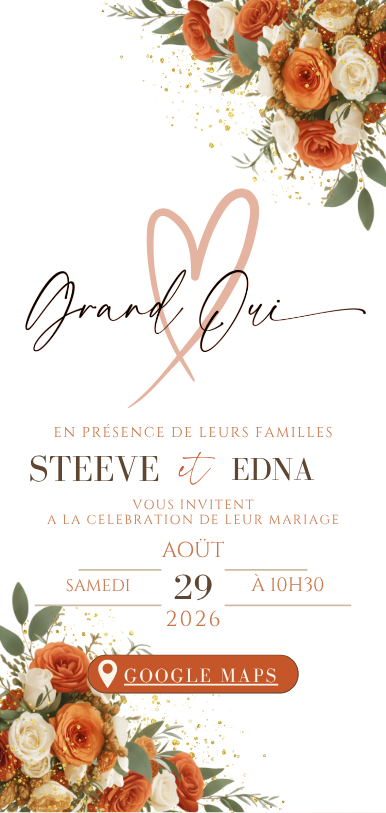
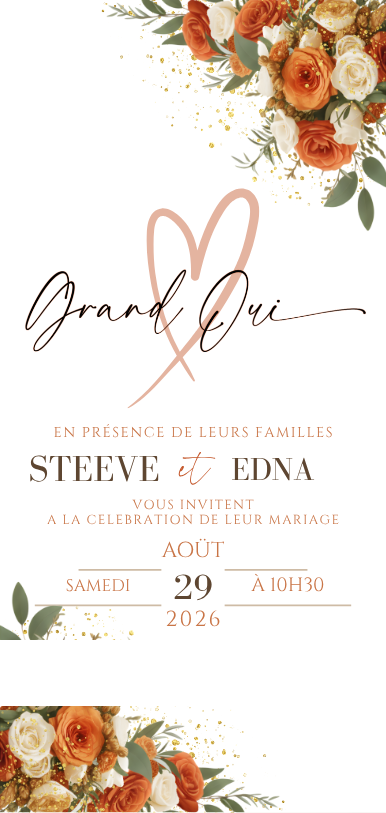
Bouton Google Maps retire de l image et remplace par un vrai bouton visible aligne a droite, Eglise ICC positionne au-dessus, autoplay active sur la musique

Changed region(s): [[0.0, 0.7688, 0.7772, 0.8918]]

diff --git a/app/mariage/[token]/MariageClient.tsx b/app/mariage/[token]/MariageClient.tsx
@@ -271,27 +271,33 @@ export default function MariageClient({ guest }: { guest: GuestV2 }) {
 
   return (
     <main className="bg-ivory">
-      {/* HERO — image Canva exacte + bouton Google Maps cliquable par-dessus + adresse église visible */}
+      {/* HERO — image Canva (bouton Google Maps original retiré) + église au-dessus + vrai bouton Maps à droite */}
       <Reveal>
       <section className="relative w-full max-w-sm mx-auto bg-ivory">
         <Image src="/canva/hero.png" alt="Steeve et Edna" width={386} height={813} className="w-full h-auto" priority />
-        <a
-          href={CHURCH_MAPS_URL}
-          target="_blank"
-          rel="noopener noreferrer"
-          aria-label="Google Maps"
-          className="absolute left-1/2 -translate-x-1/2 w-[55%] h-[4.5%]"
-          style={{ top: "78.5%" }}
-        />
       </section>
-      <Stagger delay={400}>
-        <p className="text-center pt-3 pb-4 px-6">
-          <span className="block font-serif text-base font-semibold text-terra">Église ICC</span>
-          <span className="block font-sans text-[0.6rem] tracking-[.1em] text-taupe mt-1">
-            Cérémonie religieuse — Rue de la Cotonnière, 97351 La Persévérance
-          </span>
-        </p>
-      </Stagger>
+      <div className="w-full max-w-sm mx-auto px-6 pt-1 pb-6">
+        <Stagger delay={200}>
+          <p className="text-center">
+            <span className="block font-serif text-base font-semibold text-terra">Église ICC</span>
+            <span className="block font-sans text-[0.6rem] tracking-[.1em] text-taupe mt-1">
+              Cérémonie religieuse — Rue de la Cotonnière, 97351 La Persévérance
+            </span>
+          </p>
+        </Stagger>
+        <Stagger delay={400}>
+          <div className="flex justify-end mt-4">
+            <a
+              href={CHURCH_MAPS_URL}
+              target="_blank"
+              rel="noopener noreferrer"
+              className="inline-flex items-center gap-1.5 bg-terra text-ivory font-sans text-[0.65rem] tracking-[.15em] uppercase px-5 py-2.5 hover:bg-rose-dk transition-all"
+            >
+              📍 Google Maps
+            </a>
+          </div>
+        </Stagger>
+      </div>
       </Reveal>
 
       {/* MUSIQUE — vidéo uniquement, sans le label "Notre chanson" */}
@@ -301,7 +307,7 @@ export default function MariageClient({ guest }: { guest: GuestV2 }) {
           <div className="aspect-video overflow-hidden shadow-lg">
             <iframe
               className="w-full h-full"
-              src="https://www.youtube.com/embed/t7owFiihXgg"
+              src="https://www.youtube.com/embed/t7owFiihXgg?autoplay=1&playsinline=1"
               title="You Know My Name - Tasha Cobbs Leonard"
               allow="accelerometer; autoplay; clipboard-write; encrypted-media; gyroscope; picture-in-picture"
               allowFullScreen
